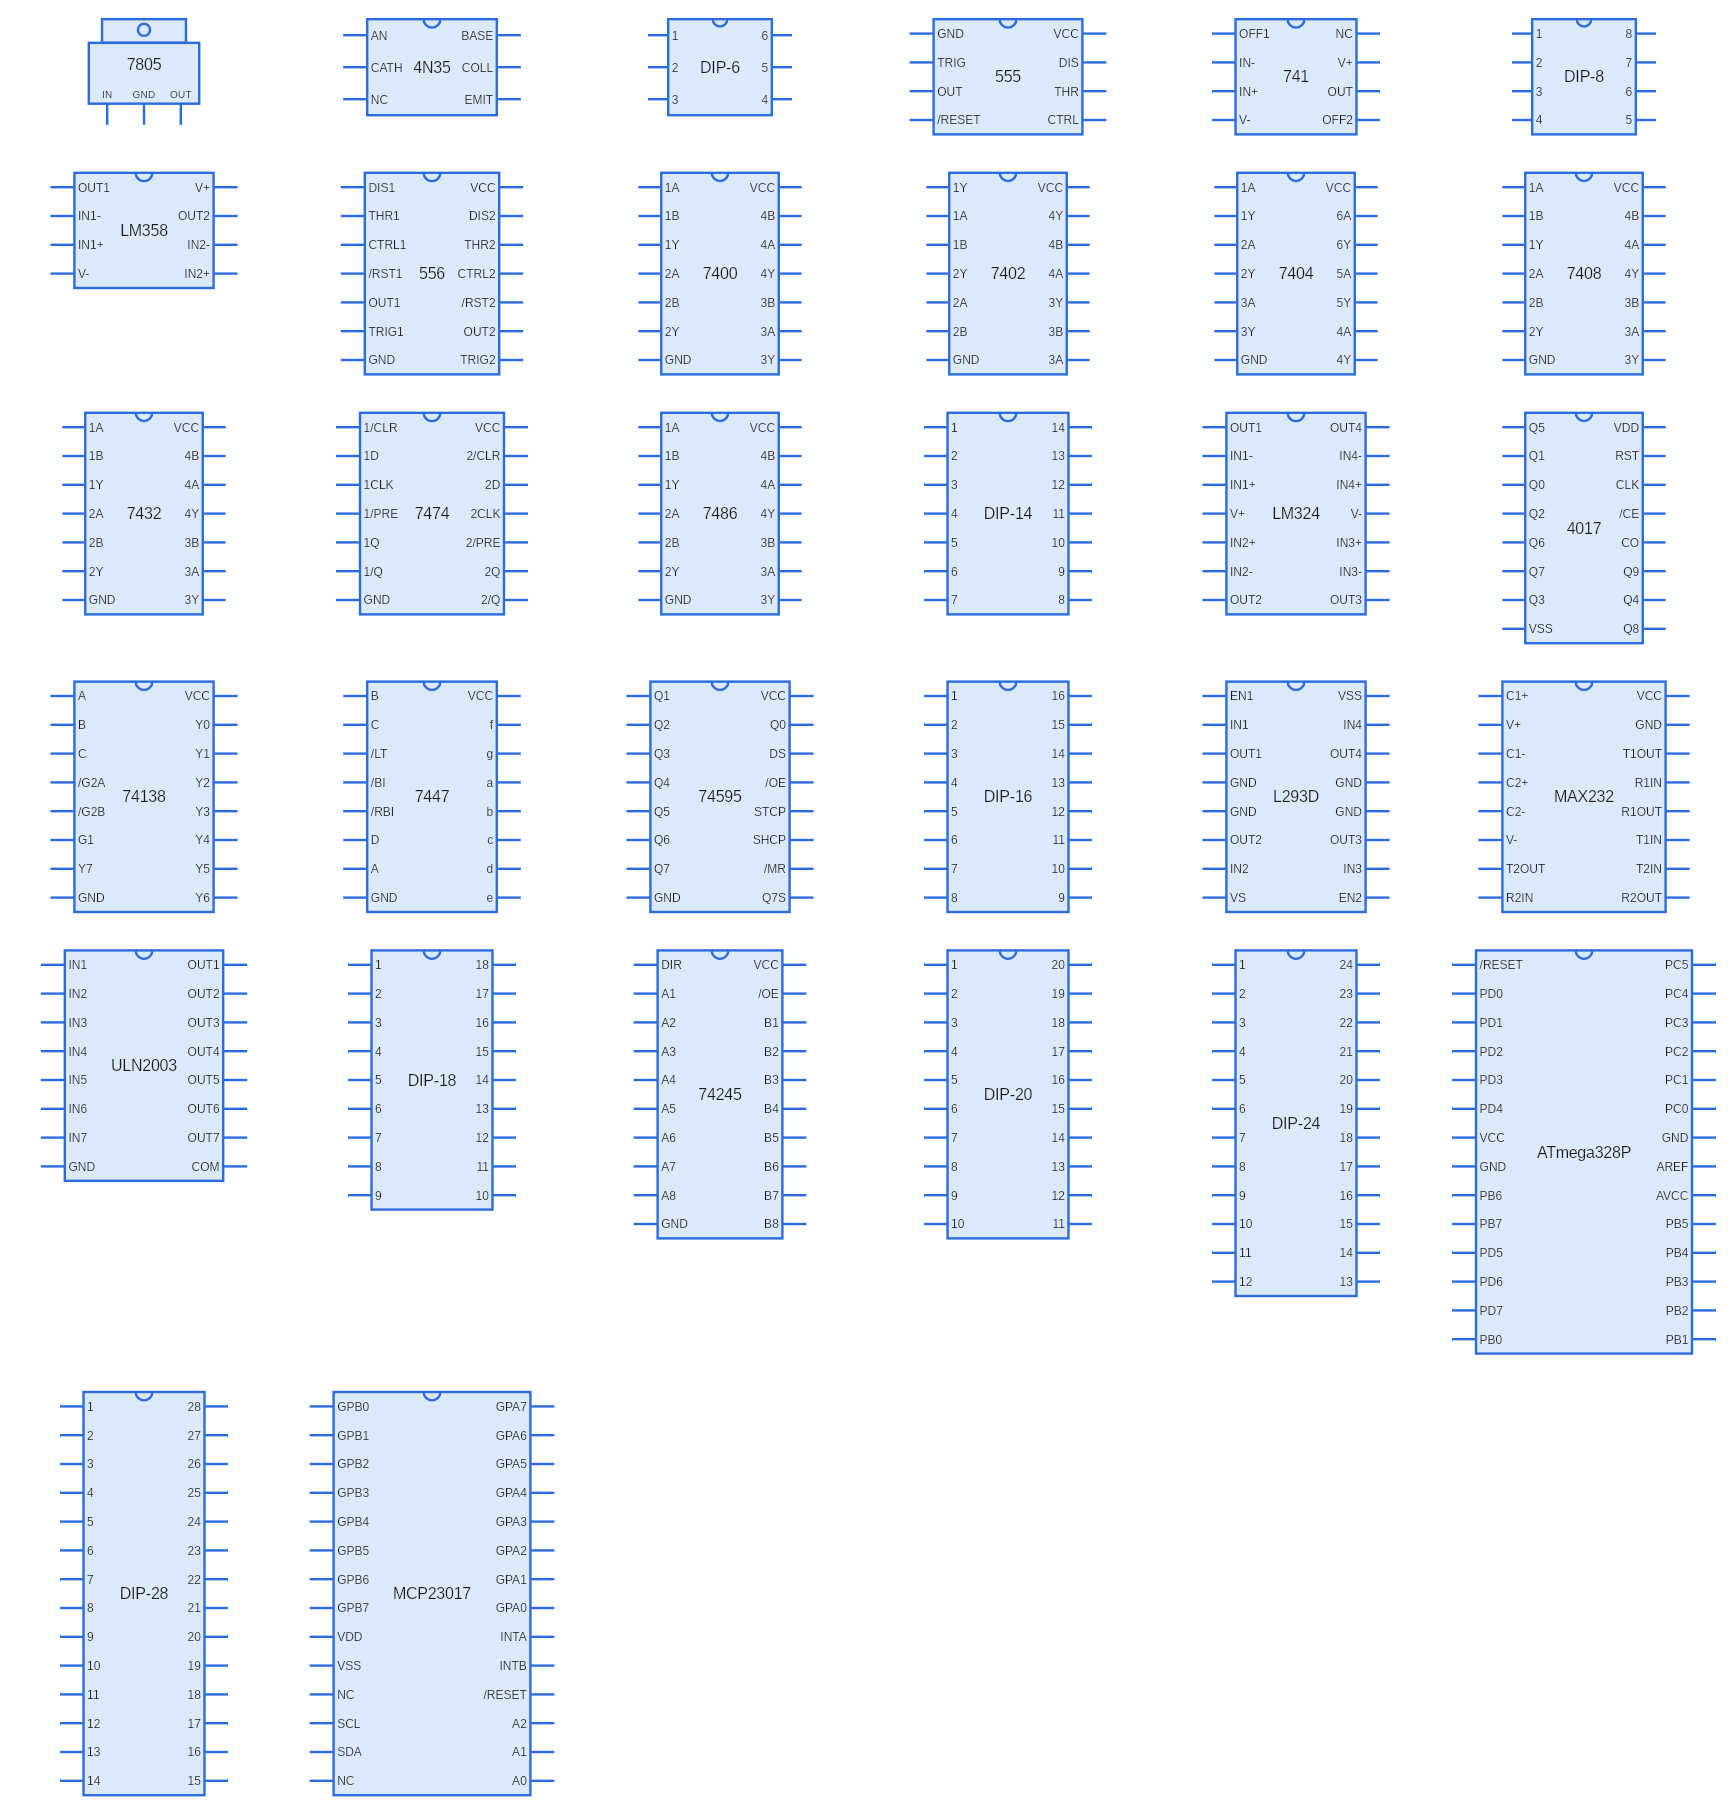
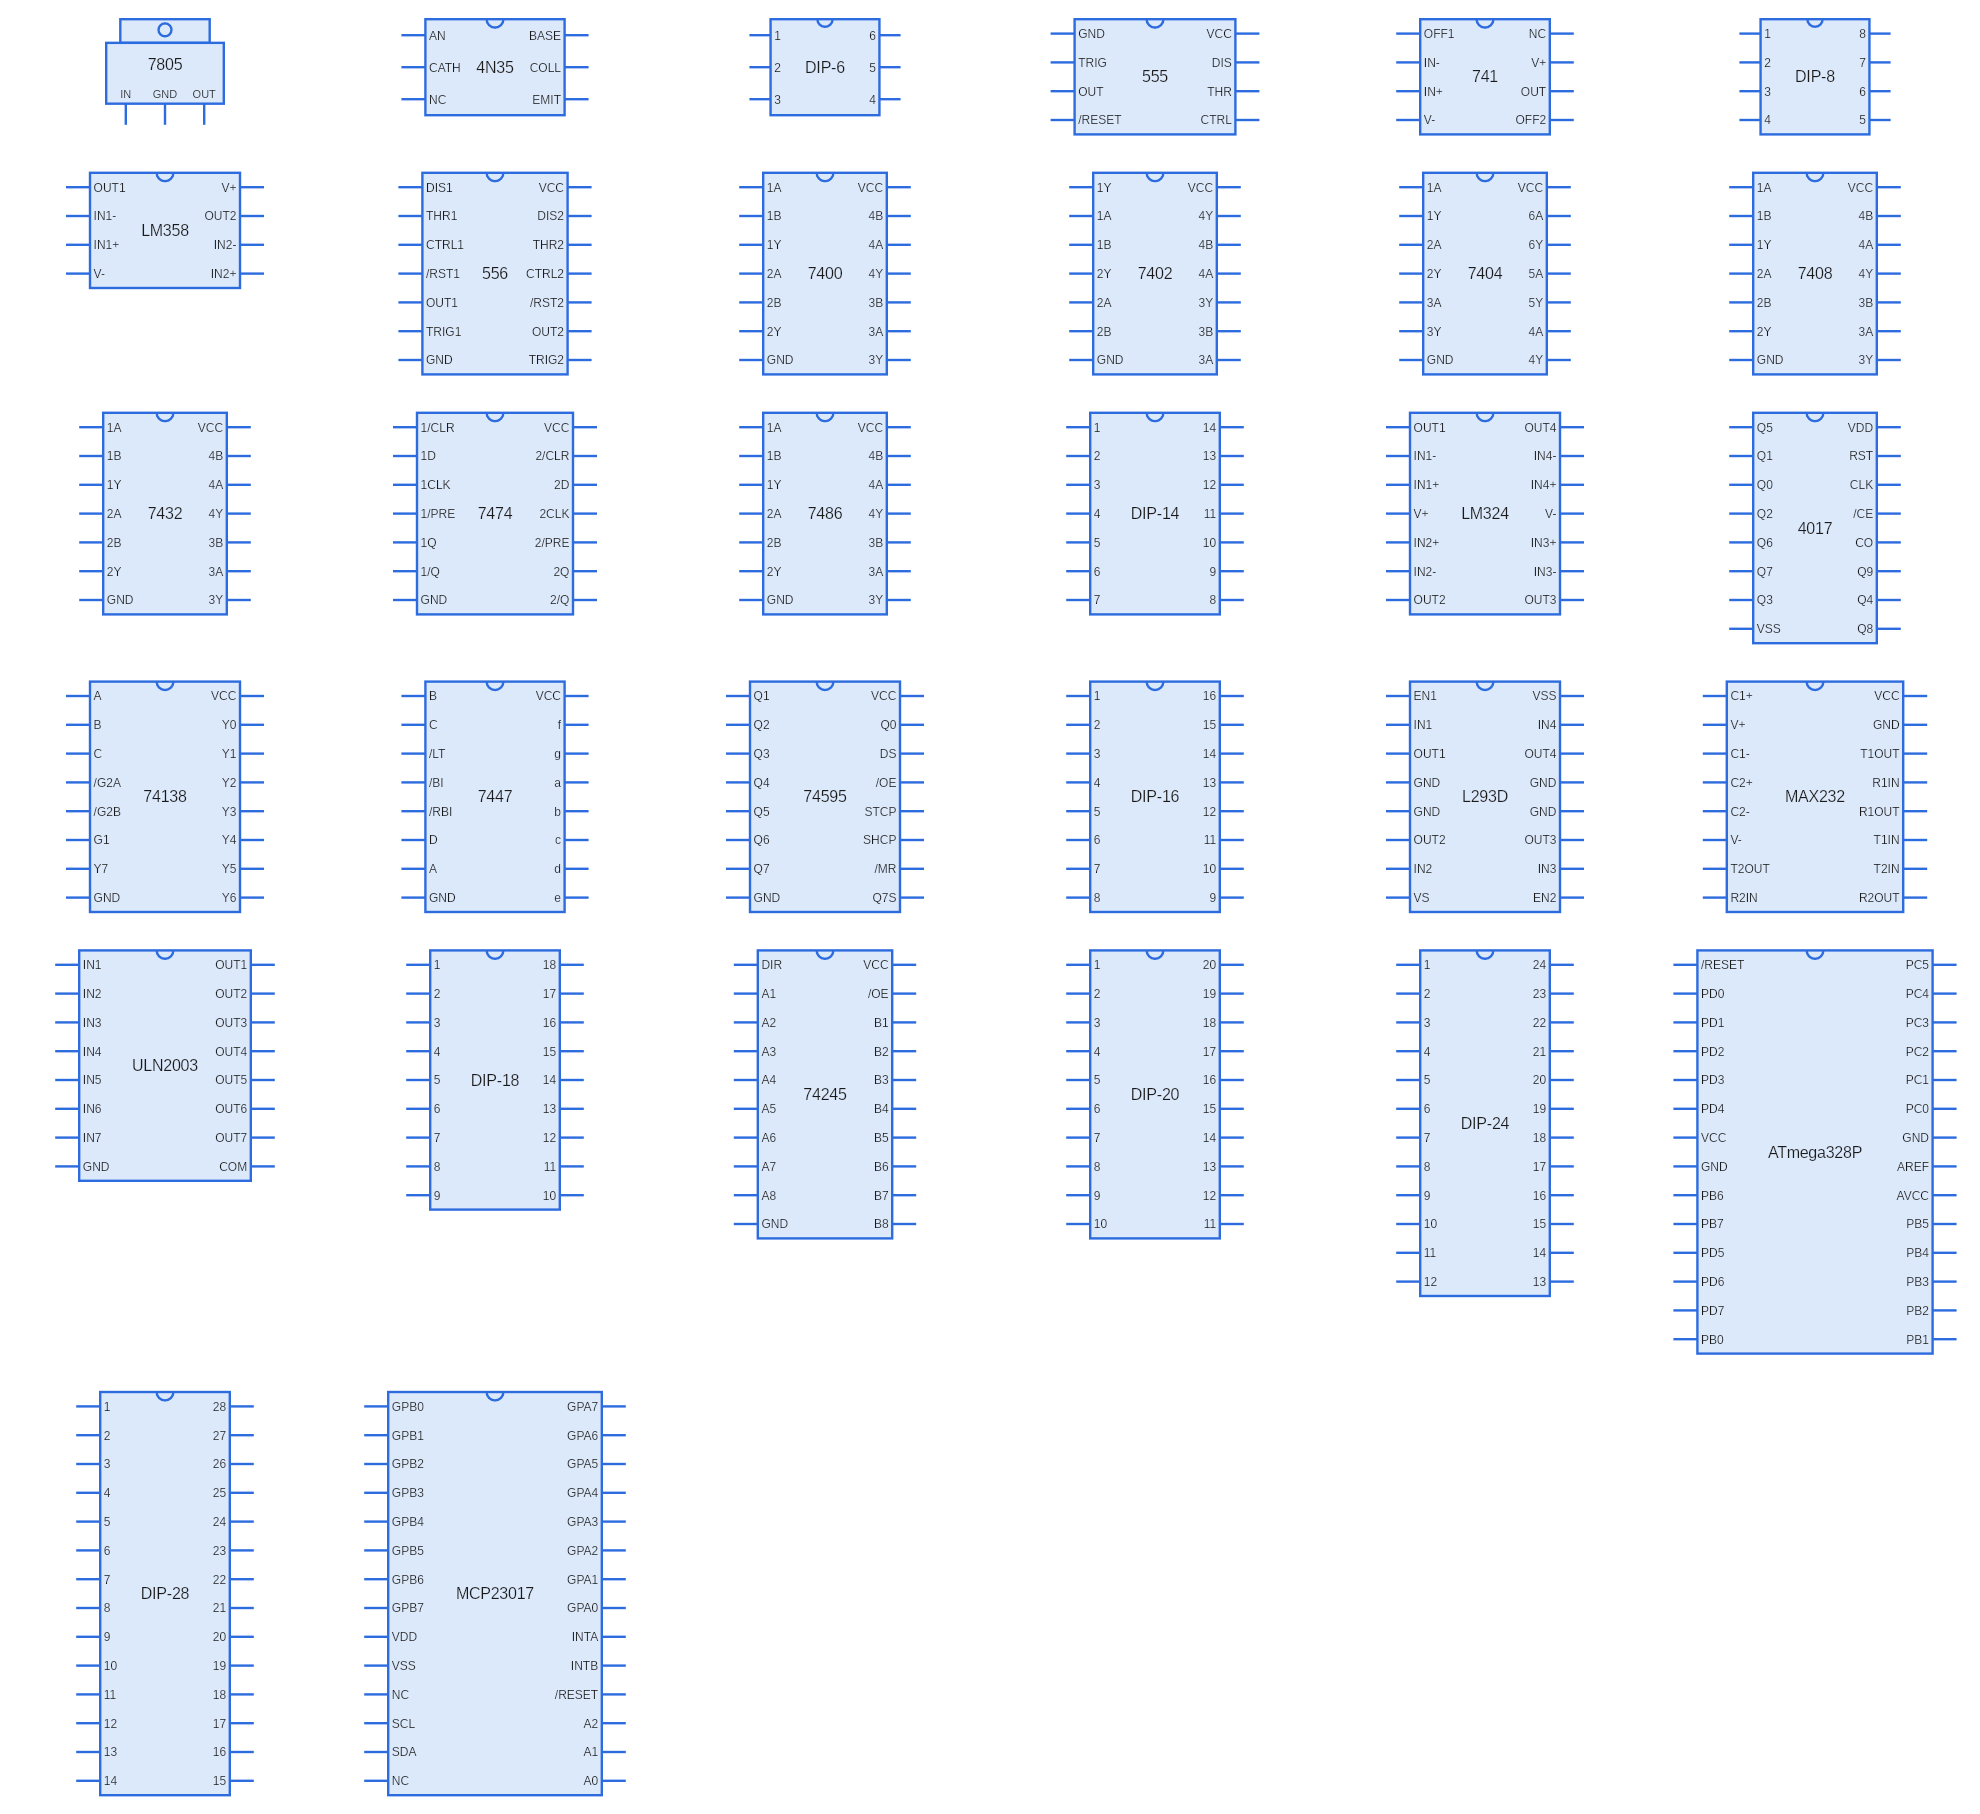
A chip's size, with room for a font that is not this one's
The v1.18.0 build failed on the test runner and passed here, on the one test
that measures real text: MAX232 came out 136 wide and needed 139. The default
face is whatever the machine has, and the runner's measures a few per cent
wider than mine - so a chip sized to the pixel here has its part number touching
its pin names there.

The per-character allowances in PreferredSize go up, the ceiling with them (220
to 250, which the ATmega328P now needs), and the test asks for eight per cent
of slack rather than a fit - so the next time somebody tightens the arithmetic
it fails on the machine they are sitting at instead of on the build.

Sheet reshot at the new widths.

diff --git a/AVASvgMaker.Tests/ChipTests.cs b/AVASvgMaker.Tests/ChipTests.cs
@@ -148,6 +148,11 @@ public class ChipTests
     /// The size a chip is dropped at has to hold the longest pin name on both sides with the
     /// part number still clear between them. This is the arithmetic the drawing does, done
     /// again from the outside: pin font, package width, the gutter the names need.
+    ///
+    /// With slack in it, because the measuring here is done with whatever font this machine
+    /// calls default and the drawing will be done with whatever font the reader's does. A
+    /// size that only just fits on one machine is a size that does not fit on another - which
+    /// is how this test came to pass here and fail on the build runner.
     /// </summary>
     [AvaloniaFact]
     public void TheSizeItIsDroppedAtFitsTheNamesAndThePartNumber()
@@ -161,9 +166,11 @@ public class ChipTests
             var names = chip.Pins.Max(pin => Measure(pin, pinSize));
             var part = Measure(chip.Name, 13);
 
-            Assert.True(names * 2 + part + 16 <= package,
-                $"{chip.Name} is {package:0.#} wide, and needs {names * 2 + part + 16:0.#} " +
-                "for its names and its part number");
+            var needed = names * 2 + part + 16;
+
+            Assert.True(needed * 1.08 <= package,
+                $"{chip.Name} is {package:0.#} wide, and needs {needed:0.#} for its names and " +
+                "its part number - too tight for a machine whose font measures wider");
 
             // And a row per pin, tall enough for the name in it to be read.
             Assert.True(size.Height / chip.PerSide >= 9, $"{chip.Name}'s rows are too shallow");
@@ -172,7 +179,7 @@ public class ChipTests
         var regulator = ChipCatalogue.Find(ShapeKind.Regulator7805)!;
         var foot = ChipShape.PreferredSize(regulator).Width / regulator.Count;
 
-        Assert.True(regulator.Pins.Max(pin => Measure(pin, 10)) + 4 <= foot,
+        Assert.True((regulator.Pins.Max(pin => Measure(pin, 10)) + 4) * 1.08 <= foot,
             $"{regulator.Name} has {foot:0.#} across each leg, and its names need more");
     }
 

diff --git a/AVASvgMaker/Models/ChipShape.cs b/AVASvgMaker/Models/ChipShape.cs
@@ -313,19 +313,24 @@ public class ChipShape : DiagramShape
     /// part number still clear of it. Measuring text here would need a font, so this counts
     /// characters instead - the numbers are the average glyph widths of the default face at
     /// the sizes the two labels use.
+    ///
+    /// They are deliberately generous. The default face is whatever the machine has, and one
+    /// that measures a few per cent wider than the machine this was calibrated on would have
+    /// a part number touching the pin names on a chip sized to the pixel - which is what the
+    /// build runner's font did.
     /// </summary>
     public static Size PreferredSize(Chip chip)
     {
         var longest = chip.Pins.Max(pin => pin.Length);
-        var part = chip.Name.Length * 8.0 + 20;
+        var part = chip.Name.Length * 8.8 + 20;
 
         if (chip.Package == ChipPackage.To220)
             return new Size(
-                Math.Clamp(Math.Ceiling(Math.Max(chip.Count * (longest * 6.2 + 12), part)), 90, 220),
+                Math.Clamp(Math.Ceiling(Math.Max(chip.Count * (longest * 6.8 + 12), part)), 90, 250),
                 88);
 
         return new Size(
-            Math.Clamp(Math.Ceiling((longest * 6.0 + 4) * 2 + part) + 40, 110, 220),
+            Math.Clamp(Math.Ceiling((longest * 6.6 + 4) * 2 + part) + 40, 110, 250),
             Math.Max(80, chip.PerSide * 24));
     }
 

diff --git a/AVASvgMaker.Tests/Screenshots.cs b/AVASvgMaker.Tests/Screenshots.cs
@@ -529,7 +529,7 @@ public class Screenshots
         var chips = ChipCatalogue.All.OrderBy(chip => chip.Count).ThenBy(chip => chip.Name).ToList();
 
         const int columns = 6;
-        const double wide = 240, margin = 16;
+        const double wide = 275, margin = 16;
 
         // A row is as tall as the tallest chip in it: a 16-pin package is twice the height of
         // an 8-pin one, and a fixed cell would leave a band of white under every short row.
